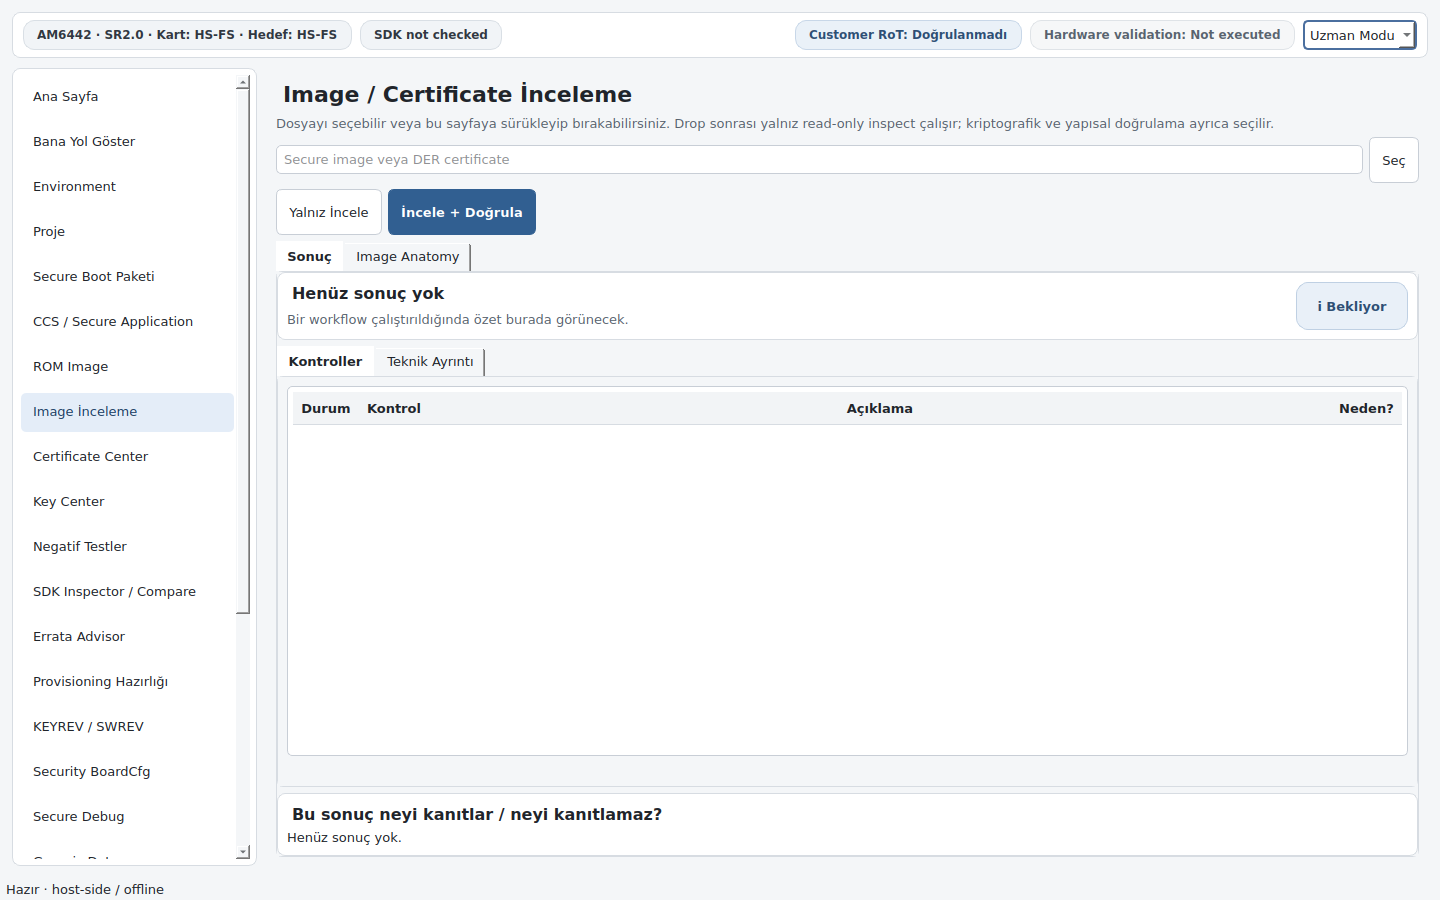
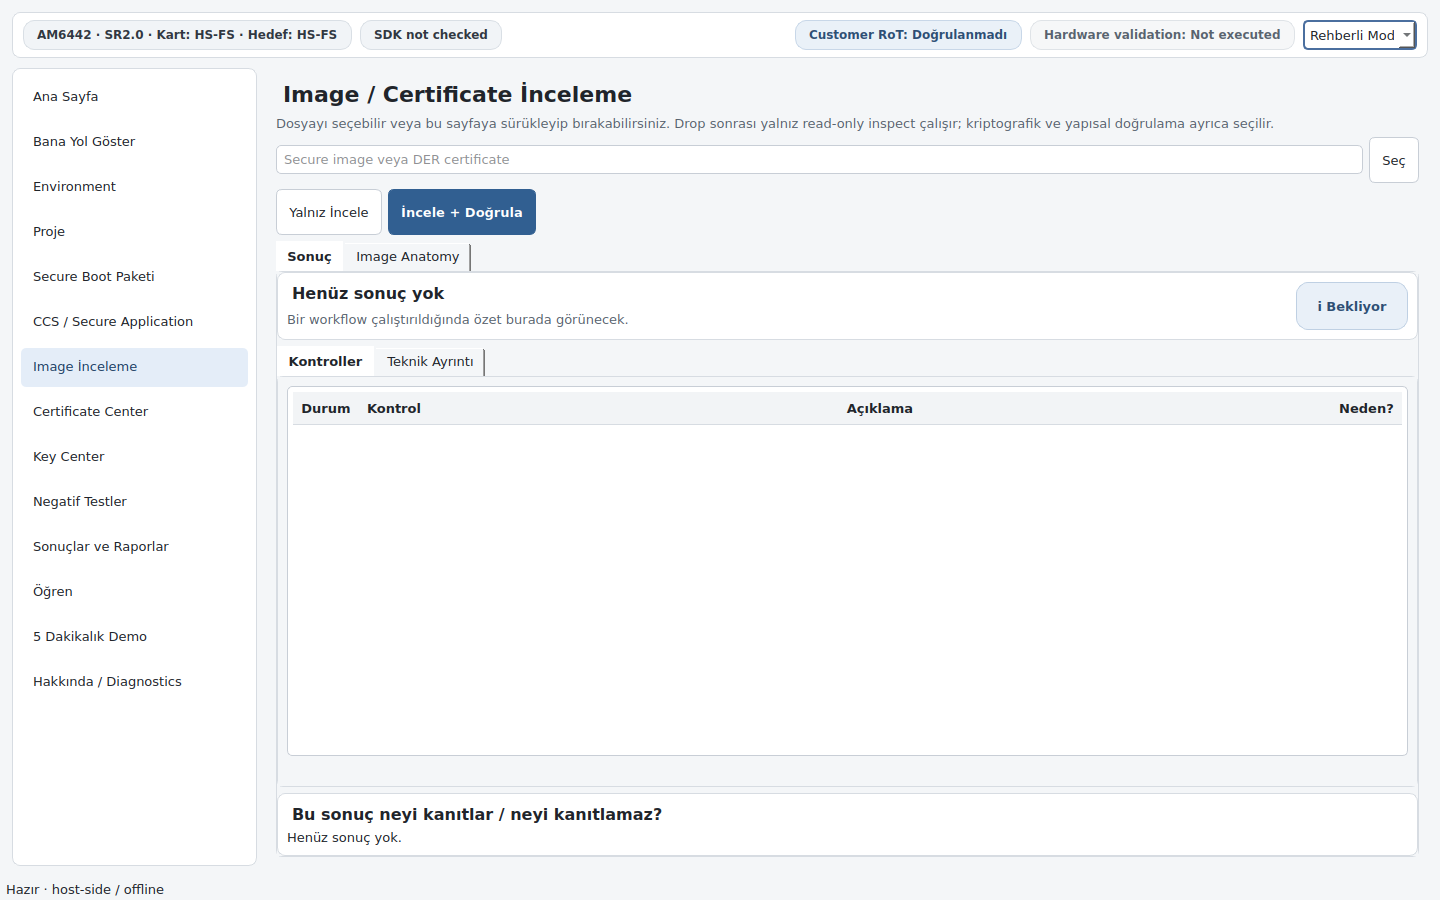
Restructure the GUI document and improve the architecture diagram
`docs/GUI.md` had the same problem the README did: it was a chronology
of alpha iterations ("alpha2 workflows", "Alpha8 visual semantic
layer", "Alpha9 workflow/history layer") rather than a description of
the interface. It is now organised by topic — modes, screens, the
shared visual/semantic system, project-aware output, diagnostics and
the safety boundary — with screenshots generated from the application.
No behaviour claims were changed; the alpha history remains in
CHANGELOG.md and docs/archive/.

The README architecture diagram was validated by rendering it with
mermaid-cli. The first version laid out as a narrow 660x1520 column
with an edge label clipped at the canvas edge. It now sets an explicit
wrapping width and uses fewer, wider nodes, which renders cleanly at
823x1176 with the layer grouping intact.

Screenshots are regenerated deterministically: Guided Mode for the
README gallery and the everyday screens, Expert Mode for the advanced
ones, so the navigation sidebar is consistent within each set.

diff --git a/docs/GUI.md b/docs/GUI.md
@@ -1,11 +1,14 @@
-# AM64x Secure Boot Studio GUI
+# AM64x Secure Boot Studio — masaüstü arayüzü
 
-Studio GUI PySide6/Qt tabanlıdır ve CLI ile aynı Python backend servislerini kullanır. GUI shell komut satırı üretip `securectl` subprocess'i çalıştırmaz; ilgili backend/workflow fonksiyonlarını doğrudan çağırır.
+Studio, PySide6/Qt tabanlıdır ve CLI ile **aynı** Python backend servislerini kullanır.
+GUI kabuk katmanı komut satırı metni üretip `securectl` subprocess'i çalıştırmaz;
+ilgili backend/workflow fonksiyonlarını doğrudan çağırır. Bu nedenle bir işlemin
+sonucu, aynı işlemin CLI'dan çalıştırılmasıyla birebir aynı mantığa dayanır.
 
 ## Çalıştırma
 
 ```bash
-pip install 'am64x-secure-toolkit[gui]'
+pip install -e ".[gui]"
 securestudio
 ```
 
@@ -15,71 +18,201 @@ veya:
 securectl gui
 ```
 
-PySide6 kurulu değilse CLI çalışmaya devam eder; GUI launch açık hata verir.
+PySide6 kurulu değilse CLI çalışmaya devam eder; yalnız GUI launch açık bir hata verir.
 
-## alpha2'de bağlı workflow'lar
+## Rehberli Mod ve Uzman Modu
 
-- Home guided navigation
-- Environment setup/discovery
-- Project workspace
-- Secure Application Wizard
-- ROM Combined Image Wizard
-- Image Inspect + Verify
-- Certificate Explorer
-- Key Center + synthetic key generation
-- Controlled-copy Negative Tests
-- SDK Inspector + SDK Compare
-- Errata Advisor
-- Provisioning Preparation — offline only
-- KEYREV / SWREV Simulator
-- Security BoardCfg inspector
-- Secure Debug policy assistant — no unlock execution
-- Generic Data assistant
-- Results / share-safe JSON
+Arayüz iki moda ayrılır. Mod seçimi sağ üstten yapılır ve yalnız kullanıcının kendi
+bilgisayarındaki local preferences dosyasında saklanır.
 
-## Safety boundary
+| | |
+| --- | --- |
+| **Rehberli Mod** | Günlük işler: Ana Sayfa, Bana Yol Göster, Environment, Proje, Secure Boot Paketi, CCS / Secure Application, Image İnceleme, Certificate Center, Key Center, Negatif Testler, Sonuçlar ve Raporlar, Öğren, Demo. |
+| **Uzman Modu** | Yukarıdakilere ek olarak ileri seviye offline/security ekranları: ROM Image, SDK Inspector / Compare, Errata Advisor, Provisioning Hazırlığı, KEYREV / SWREV, Security BoardCfg, Secure Debug, Generic Data, Source Trace. |
 
-GUI aşağıdaki target-changing işlemleri sunmaz:
+Uzman ekranlarından birine açıkça yönelmek (örneğin Ana Sayfa'daki bir bağlantıyla)
+kullanıcı niyeti sayılır ve mod otomatik olarak Uzman Modu'na geçer.
 
-- OTP/eFuse/customer-key programming
-- HS-FS -> HS-SE lifecycle transition
-- permanent debug/security changes
-- Secure Debug/JTAG unlock send
-- target-side `TISCI_MSG_PROC_AUTH_BOOT` execution
+<img src="images/home.png" alt="Ana Sayfa — Rehberli Mod" width="760">
 
-ROM load address, Host ID, OID/tool option gibi source-sensitive değerler GUI tarafından tahmin edilmez. Gerekli alanlar exact source/build context'ten kullanıcı tarafından sağlanır veya environment resolver tarafından yalnız gerçekten bulunan tool path olarak çözülür.
+Ana Sayfa bir dashboard olarak çalışır: Environment / Project / Son İşlem durum
+kartları, duruma göre güncellenen **Hızlı Başlangıç** önerisi (Environment → Project
+→ ilk workflow) ve açıklamalı görev kartları.
 
+## Ekranlar
 
-## Alpha8 visual semantic layer
+### Secure Boot Paketi
 
-- SDK Inspector, `ENC_ENABLED` ve `ENC_SBL_ENABLED` consumer chain'lerini ayrı flow diagram lane'lerinde gösterir.
-- Provisioning, Revision ve Security BoardCfg advanced ekranları ortak semantic diagram + HumanResultView kullanır.
-- Certificate Explorer alanları Image Anatomy ile ilişkilidir; relevant block parsed artifact yapısına göre vurgulanır.
-- HumanResultView içindeki her check satırında `Neden?` aksiyonu bulunur. Known checks source-backed explanation, unknown/future checks conservative status-aware explanation gösterir.
-- GUI labels backend enum değerlerinden ayrıdır; canonical values `services/ui_contract.py` içinde tutulur.
+<img src="images/secure_boot.png" alt="Secure Boot Paketi" width="760">
 
-## Alpha9 workflow/history layer
+Tek ekranda: fiziksel kart durumu ve üretim hedefinin **ayrı** seçimi, CCS
+application (ve istenirse SBL) projesi, certificate/key kimliği, opsiyonel
+encryption ve karta yükleme planı. Kartın gerçek lifecycle'ı ile build hedefi ayrı
+bilgiler olarak tutulur; eşleşmeyen paket karta yazılamaz.
 
-- Secure Debug ve Generic Data ekranları raw JSON yerine `FlowDiagramWidget + HumanResultView` kullanır.
-- Secure Debug transport seçenekleri backend ile aynı canonical `tisci / sec-ap` contract'ından gelir; TISCI Host ID alanı context-aware enable/disable edilir.
-- SDK Compare role-based side-by-side semantic diff gösterir; mapped security changes before/after incelenebilir, configured key host path'leri görünmez.
-- Project Workspace aktifken her workflow sonucu compact/share-safe `sessions/activity.jsonl` event'i olarak kalıcı kaydedilir.
-- Reports içindeki `Session History` yalnız current process memory'sidir; `Project History` project-backed kalıcı history'dir.
-- Persistent event log secret value/path, full host path veya arbitrary technical JSON taşımaz; output path yerine yalnız filename tutulur.
+### Certificate Center
 
+<img src="images/certificate.png" alt="Certificate Center" width="760">
 
-## Alpha10 onboarding ve Project-aware output
+Public X.509 yaşam döngüsünün tamamı: Subject alanlarından başlayarak yeni
+Application/Secure Debug certificate oluşturma, Explorer ile inceleme ve host-side
+doğrulama, DER/PEM/SPKI export, mevcut certificate'tan yeni sürüm üretme, iki
+certificate'ı karşılaştırma ve yalnız public kopya barındıran Certificate Library.
 
-- Ana Sayfa `Hızlı Başlangıç` Environment → Project → first workflow önerisini state'e göre günceller.
-- Application ve ROM wizard'ları Project aktifse `outputs/` altında deterministic output önerir; user override mümkündür.
-- Negative Tests `negative-tests/`, Reports `reports/`, public-only DER export `public/` altında project-relative öneri kullanabilir.
-- Secret-generating key output Project Workspace içine yazılamaz; böylece shareable workspace ile secret custody alanı birbirinden ayrılır.
-- Project Generated Artifact Index yalnız project-relative/basename-only output referansı, size ve public/generated artifact SHA-256 tutar. Secret path/value/hash tutmaz.
-- Advanced page error handling ortak guided error modeliyle normalize edilmiştir.
-- `tools/beta_ux_audit.py` GUI source contract drift'ini kontrol eder; gerçek Qt render/accessibility QA yerine geçmez.
+Ayrıntı: [`CERTIFICATE_CENTER.md`](CERTIFICATE_CENTER.md).
 
-## Hakkında / Diagnostics (alpha11)
+### Key Center
 
-`Hakkında / Diagnostics` sayfası environment ve beta-release durumunu share-safe biçimde özetler. Export edilen JSON/Markdown içinde secret value/hash/path, username, hostname veya full host path bulunmaz. `PySide6 available` veya `PyInstaller available` yalnız dependency availability bilgisidir; real Qt render veya clean-machine validation sonucu değildir.
+<img src="images/keys.png" alt="Key Center" width="760">
 
-Project ekranındaki **Son Projeler** listesi farklıdır: yalnız kullanıcının kendi bilgisayarındaki local preferences dosyasında kolaylık amacıyla tutulur ve share-safe export kapsamına girmez.
+Application ve provisioning key rolleri görsel olarak ayrılır. Mevcut signing
+key/MEK preflight kontrolü, private/public eşleşme kontrolü ve sentetik
+(açıkça non-production) key set üretimi buradadır. Public identity metadata'sı
+secret değer açığa çıkarılmadan gösterilir.
+
+### Image İnceleme
+
+<img src="images/inspector.png" alt="Image İnceleme" width="760">
+
+Read-only inceleme; sürükle-bırak ile dosya açılabilir.
+
+### Bana Yol Göster
+
+<img src="images/guide.png" alt="Bana Yol Göster" width="760">
+
+CLI komutu, OID veya tool adı bilmeden birkaç soruyla en uygun host-side workflow'a
+yönlendirir.
+
+### Environment ve Proje
+
+<img src="images/environment.png" alt="Environment" width="760">
+
+Environment ekranı MCU+ SDK, Python/OpenSSL ve TI signer durumunu kontrol eder.
+Sonuçlar varsayılan olarak insan-okunur bir özet gösterir; tam path, hash ve ham
+discovery JSON'ı **Teknik Ayrıntılar** altında kalır.
+
+<img src="images/project.png" alt="Proje Workspace" width="760">
+
+Proje ekranı, aktif proje yokken yalnız oluştur/aç akışını ve kompakt Son Projeler
+listesini gösterir. Proje açıldığında Workspace Özeti, Üretilen Dosyalar ve
+share-safe İşlem Geçmişi dashboard'u görünür.
+
+### Sonuçlar ve Raporlar
+
+<img src="images/reports.png" alt="Sonuçlar ve Raporlar" width="760">
+
+Güncel sonuç, bellek içi share-safe oturum geçmişi, tek image Markdown raporu ve
+toplu rapor üretimi. Proje aktifse `Project History` sekmesi kalıcı, project-backed
+geçmişi okur.
+
+### İleri seviye ekranlar (Uzman Modu)
+
+<img src="images/sdk.png" alt="SDK Inspector / Compare" width="760">
+
+SDK Inspector `devconfig.mak`, Makefile ve signing tool consumer zincirlerini
+read-only inceler; `ENC_ENABLED` ve `ENC_SBL_ENABLED` consumer chain'lerini ayrı
+diagram lane'lerinde gösterir. SDK Compare iki SDK/source setini role bazlı
+side-by-side semantic diff olarak karşılaştırır; configured key host path'leri
+görünmez.
+
+<img src="images/negative.png" alt="Negatif Testler" width="760">
+
+Negatif Testler tek mutasyon, otomatik suite ve ROM component mutasyonu sunar ve
+yalnız ayrı dosya kopyaları üzerinde çalışır — kaynak image değiştirilmez.
+
+<img src="images/errata.png" alt="Errata Advisor" width="760">
+
+Errata Advisor, AM64x/AM243x Rev. J boot ve security advisory'lerini silicon
+revision ile kullanım bağlamına göre filtreler.
+
+<img src="images/provisioning.png" alt="Provisioning Hazırlığı" width="760">
+
+Provisioning Hazırlığı yalnız **offline** HS-FS → HS-SE hazırlık kontrolüdür.
+Aynı görsel dili KEYREV / SWREV, Security BoardCfg, Secure Debug ve Generic Data
+ekranları da kullanır.
+
+## Ortak görsel/semantik sistem
+
+Tüm workflow ekranları aynı iki bileşen üzerine kuruludur:
+
+- **`FlowDiagramWidget`** — işlemin semantic akışını gösterir.
+- **`HumanResultView`** — sonucu ham JSON yerine insan-okunur kontrol satırları
+  olarak sunar. Her satırda source-aware bir **Neden?** açıklaması bulunur; bilinen
+  kontroller kaynak-dayanaklı, bilinmeyen/gelecek kontroller ise temkinli ve
+  status-aware bir açıklama gösterir. Ham teknik çıktı **Teknik Ayrıntılar** altında
+  erişilebilir kalır.
+
+Her sonuç panelinde **"Bu sonuç neyi kanıtlar / neyi kanıtlamaz?"** bölümü bulunur.
+Bu, `services/claim_boundary.py` tarafından üretilir ve offline bir sonucun donanım
+kanıtına yükseltilmesini engeller.
+
+GUI etiketleri backend enum değerlerinden ayrıdır; canonical değerler
+`services/ui_contract.py` içinde tutulur ve testlerle kilitlenir. Böylece bir
+dropdown seçeneği arkasındaki mantıktan sessizce kopamaz.
+
+## Proje farkındalıklı çıktı
+
+Bir Project Workspace aktifken:
+
+- Application ve ROM wizard'ları `outputs/`, Negatif Testler `negative-tests/`,
+  Raporlar `reports/`, public-only DER export `public/` altında project-relative bir
+  çıktı yolu **önerir**. Bu yalnız öneridir; kullanıcı değiştirebilir ve mevcut
+  dosyalar overwrite edilmez.
+- Her workflow sonucu compact ve share-safe bir `sessions/activity.jsonl` event'i
+  olarak kaydedilir.
+- Generated Artifact Index yalnız project-relative/basename-only çıktı referansı,
+  boyut ve public artifact SHA-256'sı tutar.
+
+Secret üreten key çıktısı Project Workspace içine **yazılamaz**. Böylece paylaşılabilir
+workspace ile secret custody alanı birbirinden ayrılır.
+
+Kalıcı event log; secret değer/path, full host path veya keyfi teknik JSON taşımaz.
+Çıktı yolu yerine yalnız dosya adı tutulur.
+
+## Hakkında / Diagnostics
+
+`Hakkında / Diagnostics` sayfası environment ve beta-release durumunu share-safe
+biçimde özetler. Export edilen JSON/Markdown içinde secret değer/hash/path,
+kullanıcı adı, hostname veya full host path bulunmaz.
+
+`PySide6 available` veya `PyInstaller available` satırları yalnız dependency
+availability bilgisidir; gerçek Qt render veya clean-machine validation sonucu
+değildir.
+
+Proje ekranındaki **Son Projeler** listesi bundan farklıdır: yalnız kullanıcının
+kendi bilgisayarındaki local preferences dosyasında kolaylık amacıyla tutulur ve
+share-safe export kapsamına girmez.
+
+## Güvenlik sınırı
+
+GUI aşağıdaki target-changing işlemleri **sunmaz**:
+
+- OTP / eFuse / customer-key programming
+- HS-FS → HS-SE lifecycle transition
+- kalıcı debug/security değişikliği
+- Secure Debug / JTAG unlock gönderimi
+- target tarafında `TISCI_MSG_PROC_AUTH_BOOT` çalıştırma
+
+ROM load address, Host ID, OID veya tool option gibi source-sensitive değerler GUI
+tarafından **tahmin edilmez**. Bu alanlar ya kullanıcı tarafından exact source/build
+context'ten sağlanır ya da environment resolver tarafından yalnız gerçekten bulunan
+tool path olarak çözülür.
+
+Tam sınır tanımı: [`SECURITY_BOUNDARY.md`](SECURITY_BOUNDARY.md).
+
+## Ekran görüntülerinin üretimi
+
+Bu dosyadaki görüntüler uygulamadan doğrudan üretilir:
+
+```bash
+python tools/capture_screenshots.py --mode guided --pages home,secure_boot,certificate
+python tools/capture_screenshots.py --mode expert --pages sdk,negative,errata,provisioning
+```
+
+Araç `AM64X_STUDIO_CONFIG_HOME` değişkenini geçici bir dizine yönlendirir; böylece her
+çalıştırma varsayılan tercihlerle başlar ve kullanıcının gerçek ayarları okunmaz veya
+değiştirilmez.
+
+`tools/qt_visual_qa.py` aynı şekilde 23 sayfanın tamamını başsız render eder ve CI'da
+her push'ta çalışır. Bu, render/runtime bozulmalarını yakalar; desteklenen bir
+masaüstünde yapılacak **insan görsel QA'sının yerine geçmez**.

diff --git a/CHANGELOG.md b/CHANGELOG.md
@@ -16,6 +16,11 @@
   `None`.
 - `negative.py` no longer binds the result of the DER boundary check it performs
   purely for validation; the validating call itself is preserved.
+- The Qt QA and screenshot tools no longer mutate the user's saved settings.
+  Navigating to an expert-only page calls `set_mode("expert")`, which the Studio
+  persists, so running `tools/qt_visual_qa.py` silently switched the user's saved
+  mode. Both tools now point `AM64X_STUDIO_CONFIG_HOME` at a throwaway directory,
+  which also makes their output reproducible instead of depending on local state.
 
 ### Added
 
@@ -30,6 +35,12 @@
   architecture diagram.
 - Ruff configuration in `pyproject.toml`, documenting which rule families are
   deliberately not enforced and why.
+- `SECURITY.md` with a private vulnerability reporting route and an explicit
+  in-scope / out-of-scope list for a host-side toolkit.
+- `CITATION.cff`, so the project can be cited directly from GitHub.
+- A `--mode` option for `tools/capture_screenshots.py`, so Guided Mode and Expert
+  Mode views can be captured deliberately rather than inheriting whatever mode was
+  last saved.
 
 ### Changed
 
@@ -41,7 +52,12 @@
   they are. `docs/` now holds 21 current documents instead of 64 mixed files.
 - Applied ruff's import sorting and removed unused imports across the codebase.
   `ruff check src tests tools` is clean.
-- Regression: 288 tests pass; all 23 Studio pages render offscreen.
+- Rewrote `docs/GUI.md`. It was organised as a chronology of alpha iterations;
+  it now describes the interface as it is - modes, screens, the shared
+  visual/semantic system, project-aware output and the safety boundary - with
+  screenshots generated from the application.
+- Regression: 288 tests pass; all 23 Studio pages render offscreen; the project's
+  own `release-scan` reports 0 findings across 278 files.
 
 ## 2.0.0-alpha33
 
